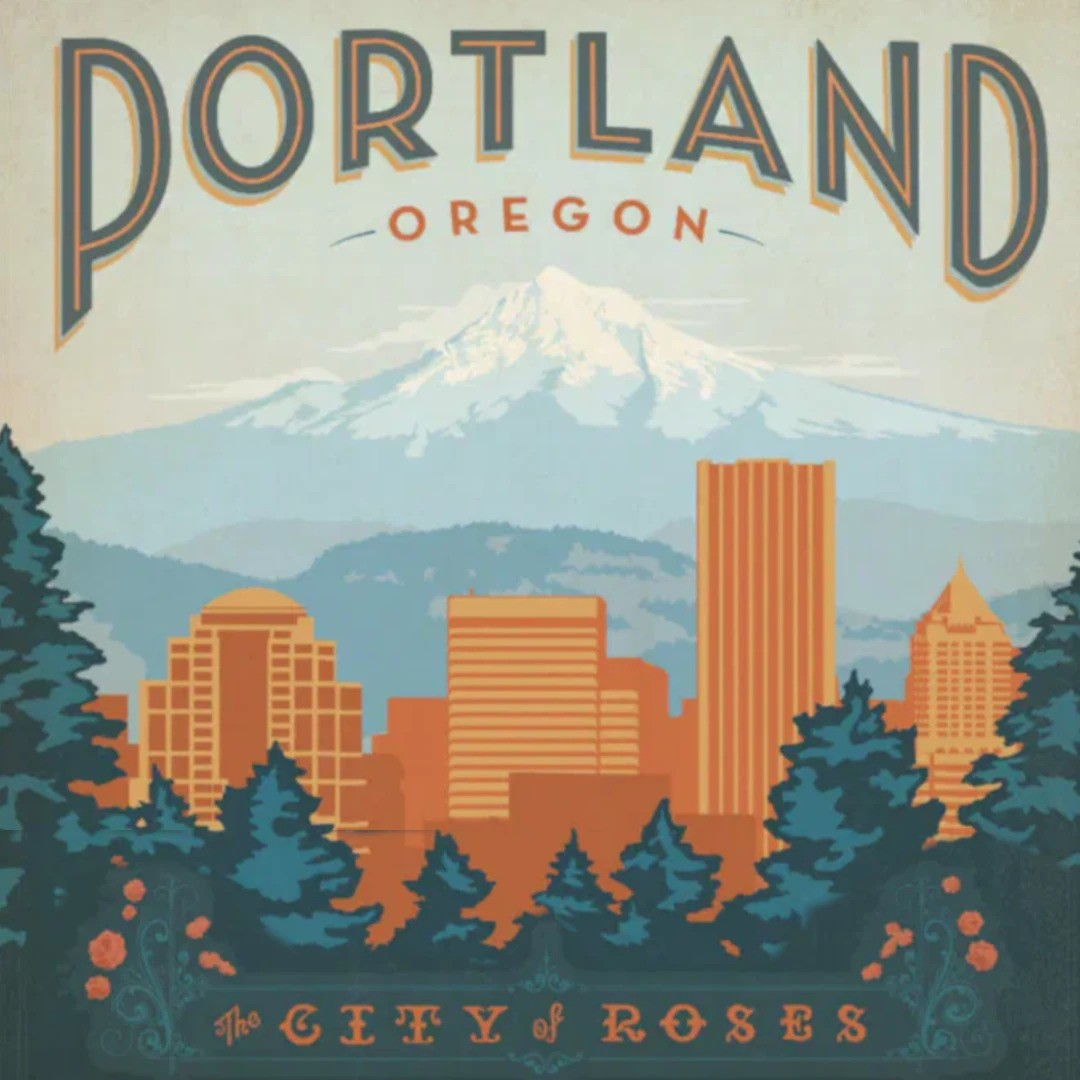
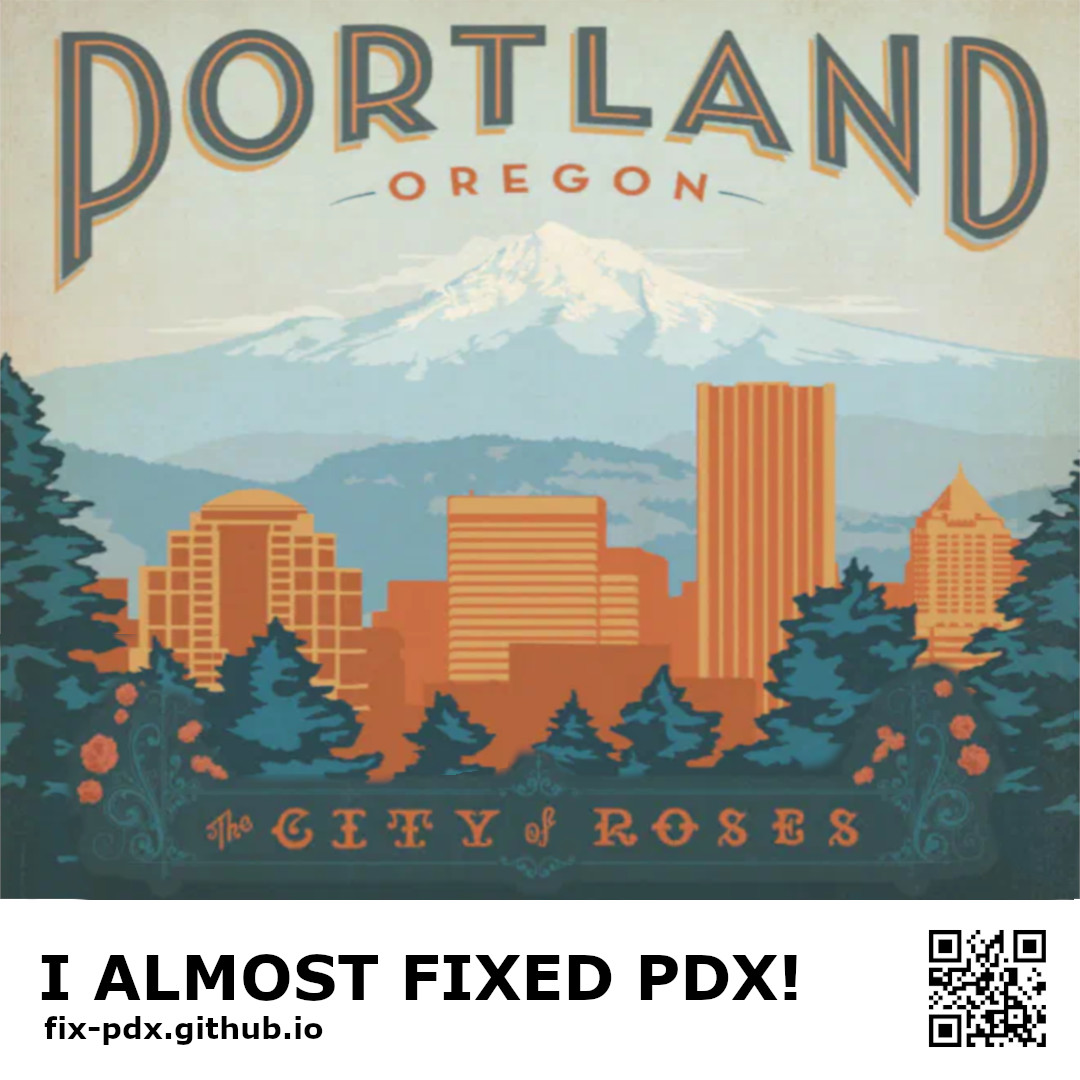
Updated imgs with QR code

diff --git a/static/app.js b/static/app.js
@@ -13,12 +13,10 @@ const conclusion = () => {
         document.getElementById("g-post").style.display = "block"
         downloadBtn.href = "/static/postcards/success.jpg"
         downloadBtn.download = "success.jpg"
-        alert(`Success: ${success}`) 
     } else { 
         document.getElementById("b-post").style.display = "block"
         downloadBtn.href = "/static/postcards/fail.jpg"
         downloadBtn.download = "fail.jpg"
-        alert(`Fail: ${fail}`)
     }
     document.getElementById("q-5").style.display = "none"
 }

diff --git a/index.html b/index.html
@@ -68,10 +68,8 @@
     <div id="img-wrap" style="display: none;">
         <img src="/static/postcards/success.jpg" alt="postcard" style="display: none;" id="g-post">
         <img src="/static/postcards/fail.jpg" alt="postcard" style="display: none;" id="b-post">
-        <span class="btn-wrap">
+        <span class="btn-wrap" style="display: none;">
             <button><a href="" download="" id="download-btn">Download</a></button>
-            
-            <button>Share</button>
         </span>
     </div>
     
